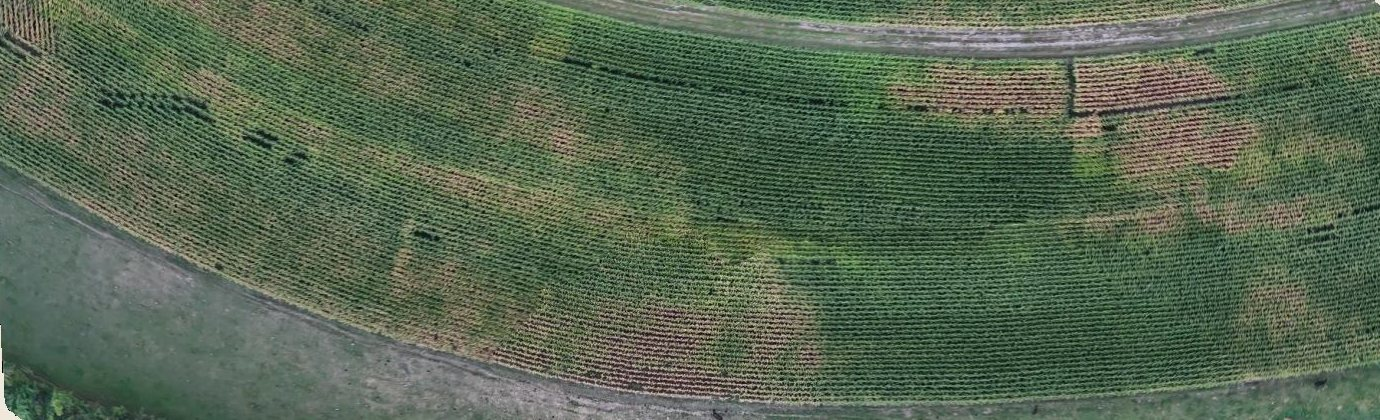
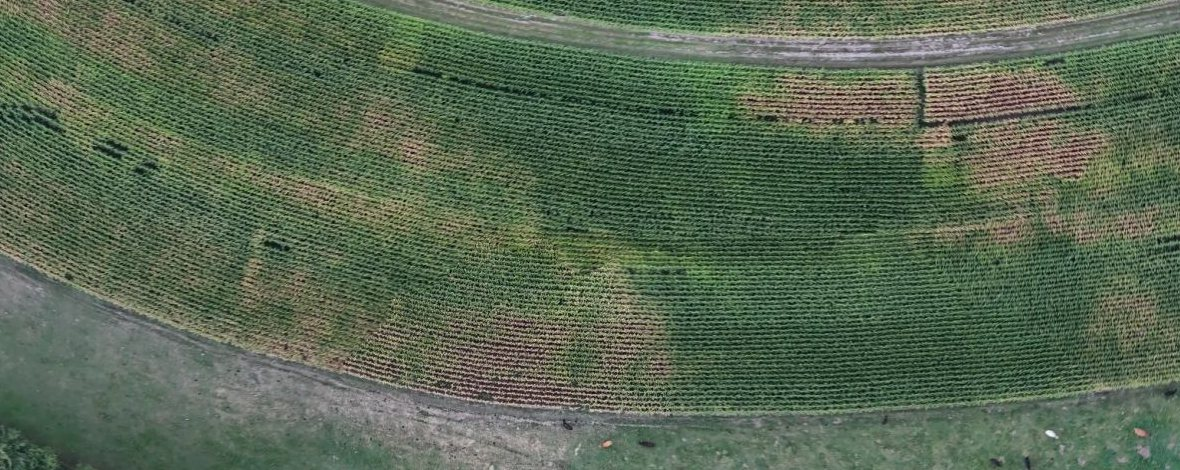
Hero, per Fable's review: <picture> art direction so each device downloads only its own crop (fetchPriority, not preload), lede in full paper for contrast over the brightest patches, taller field-only rows crop
Claude-Session: https://claude.ai/code/session_01WVVsZ1RQq6bfPZeq2euagH

diff --git a/src/app/page.tsx b/src/app/page.tsx
@@ -1,4 +1,4 @@
-import Image from "next/image";
+import Image, { getImageProps } from "next/image";
 import Link from "next/link";
 import { site } from "@/lib/site";
 import Reveal from "@/components/reveal";
@@ -17,6 +17,13 @@ const mailto = site.email ? `mailto:${site.email}?subject=${encodeURIComponent("
 const tel = site.phone ? `tel:+1${site.phone.replace(/\D/g, "")}` : null;
 
 const F = site.flight;
+
+// Hero images: the 2 Sep corner test (corn rows, the lane) on wide screens, the full H-3 map on
+// phones. fetchPriority rather than preload, so the browser fetches only the one it shows.
+const heroCommon = { alt: "", sizes: "100vw", fetchPriority: "high" as const };
+const heroWide = getImageProps({ ...heroCommon, src: "/hero-h3-rows.jpg", width: 1180, height: 470, quality: 75 }).props.srcSet;
+const { srcSet: heroPhoneSrcSet, ...heroPhoneRest } = getImageProps({ ...heroCommon, src: "/hero-h3-field.jpg", width: 1000, height: 790, quality: 75 }).props;
+const heroPhone = { ...heroPhoneRest, srcSet: heroPhoneSrcSet };
 
 export default async function Home() {
   const episodes = await getEpisodes(site.podcast.feed);
@@ -47,8 +54,11 @@ export default async function Home() {
       <section className="relative z-10 overflow-hidden bg-night text-paper">
         <div className="absolute inset-0" aria-hidden="true">
           <div className="flyover-pan absolute inset-0">
-            <Image priority src="/hero-h3-rows.jpg" alt="" fill sizes="100vw" className="hidden object-cover md:block" />
-            <Image priority src="/hero-h3-field.jpg" alt="" fill sizes="100vw" className="object-cover md:hidden" />
+            {/* Art direction: one <picture>, so each device downloads only its own crop. */}
+            <picture>
+              <source media="(min-width: 768px)" srcSet={heroWide} />
+              <img {...heroPhone} alt="" className="absolute inset-0 h-full w-full object-cover" />
+            </picture>
           </div>
           <div className="absolute inset-0 bg-[linear-gradient(90deg,rgba(19,28,22,0.88)_0%,rgba(19,28,22,0.62)_48%,rgba(19,28,22,0.3)_100%)]" />
           <div className="absolute inset-x-0 bottom-0 h-40 bg-[linear-gradient(0deg,rgba(19,28,22,0.7),rgba(19,28,22,0))]" />
@@ -60,7 +70,7 @@ export default async function Home() {
               <span className="rise d2 block">Your data.</span>
               <span className="rise d3 block font-normal italic text-[#b9d4bd]">Your call.</span>
             </h1>
-            <p className="rise d3 max-w-[620px] text-[19px] leading-[1.45] text-paper/85 sm:text-[21px]">
+            <p className="rise d3 max-w-[620px] text-[19px] leading-[1.45] text-paper sm:text-[21px]">
               Drone maps of your fields, filed in a record you own. We fly it, your agronomist signs it, you keep it.
             </p>
             <div className="rise d4 flex flex-wrap items-center gap-3.5">
